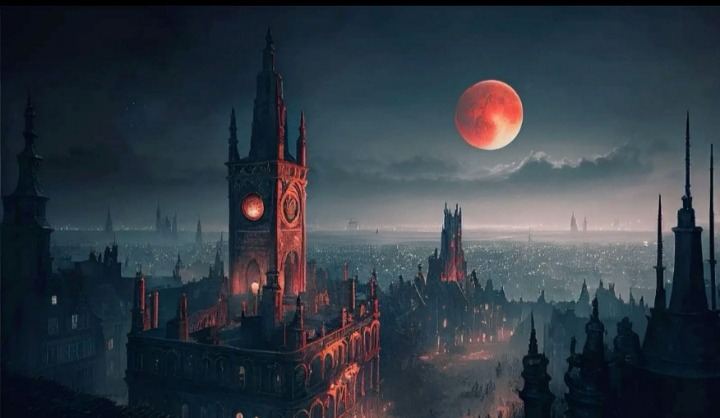
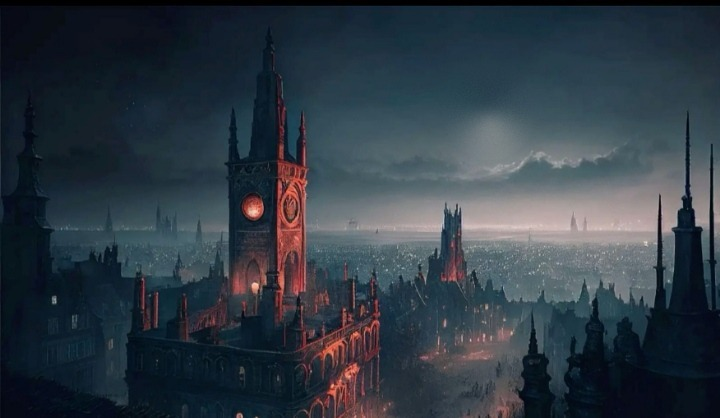
Главная: убрана вторая луна, остаётся только луна в руках богини
Claude-Session: https://claude.ai/code/session_01UDsxQNYQBESVZgLKZM51fP

Changed region(s): [[0.6111, 0.1866, 0.7333, 0.3732]]

diff --git a/index.html b/index.html
@@ -128,7 +128,7 @@ small{opacity:.6;font-size:10px;white-space:pre-wrap}
 /* зал: оформление */
 #hall{background:none;border:0;box-shadow:none;padding:0}
 #hall #startInHall{background:var(--panel);border:1px solid var(--line);border-radius:18px;padding:13px;box-shadow:0 8px 28px #0006}
-.hero{position:relative;height:236px;border-radius:20px;overflow:hidden;border:1px solid #54456f;background:#100a22 url(shared/art/tingen.jpg?v=1) 82% 30%/cover;box-shadow:0 10px 34px #0008,inset 0 0 40px #0006;--px:0;--py:0}
+.hero{position:relative;height:236px;border-radius:20px;overflow:hidden;border:1px solid #54456f;background:#100a22 url(shared/art/tingen.jpg?v=2) 82% 30%/cover;box-shadow:0 10px 34px #0008,inset 0 0 40px #0006;--px:0;--py:0}
 .heroGL,.heroFx{position:absolute;inset:0;width:100%;height:100%;display:block;pointer-events:none}.hero:after{content:"";position:absolute;inset:0;pointer-events:none;background:linear-gradient(#0000 45%,#05030acc);}
 .stars i{position:absolute;width:2px;height:2px;border-radius:50%;background:#fff;animation:tw var(--t) ease-in-out var(--d) infinite}
 @keyframes tw{0%,100%{opacity:.2}50%{opacity:1}}
@@ -2018,7 +2018,7 @@ function arenaBanner(d){
 }
 </script>
 <script>try{var _q=new URLSearchParams(location.search),_t=_q.get("tab");if(_t&&window.showTab){showTab(_t);_q.delete("tab");history.replaceState(null,"",location.pathname+(_q.toString()?"?"+_q.toString():"")+location.hash)}}catch(e){}</script>
-<script src="./shared/hero.js?v=1"></script>
+<script src="./shared/hero.js?v=2"></script>
 <script src="./shared/icons.js?v=i1"></script>
 </body>
 </html>

diff --git a/shared/hero.js b/shared/hero.js
@@ -6,7 +6,7 @@ var reduce=false;try{reduce=(window.__mm||matchMedia)("(prefers-reduced-motion:r
 var cs=document.currentScript,base=cs&&cs.src?cs.src.replace(/[^\/]*(\?.*)?$/,"")+"art/":"shared/art/";
 var img=new Image(),img2=new Image(),n=0;
 function ld(){if(++n===2)setTimeout(start,300)}
-img.onload=ld;img2.onload=ld;img.src=base+"tingen.jpg?v=1";img2.src=base+"goddess.jpg?v=1";
+img.onload=ld;img2.onload=ld;img.src=base+"tingen.jpg?v=2";img2.src=base+"goddess.jpg?v=1";
 function start(){
  var gl=document.createElement("canvas"),fx=document.createElement("canvas");
  gl.className="heroGL";fx.className="heroFx";
